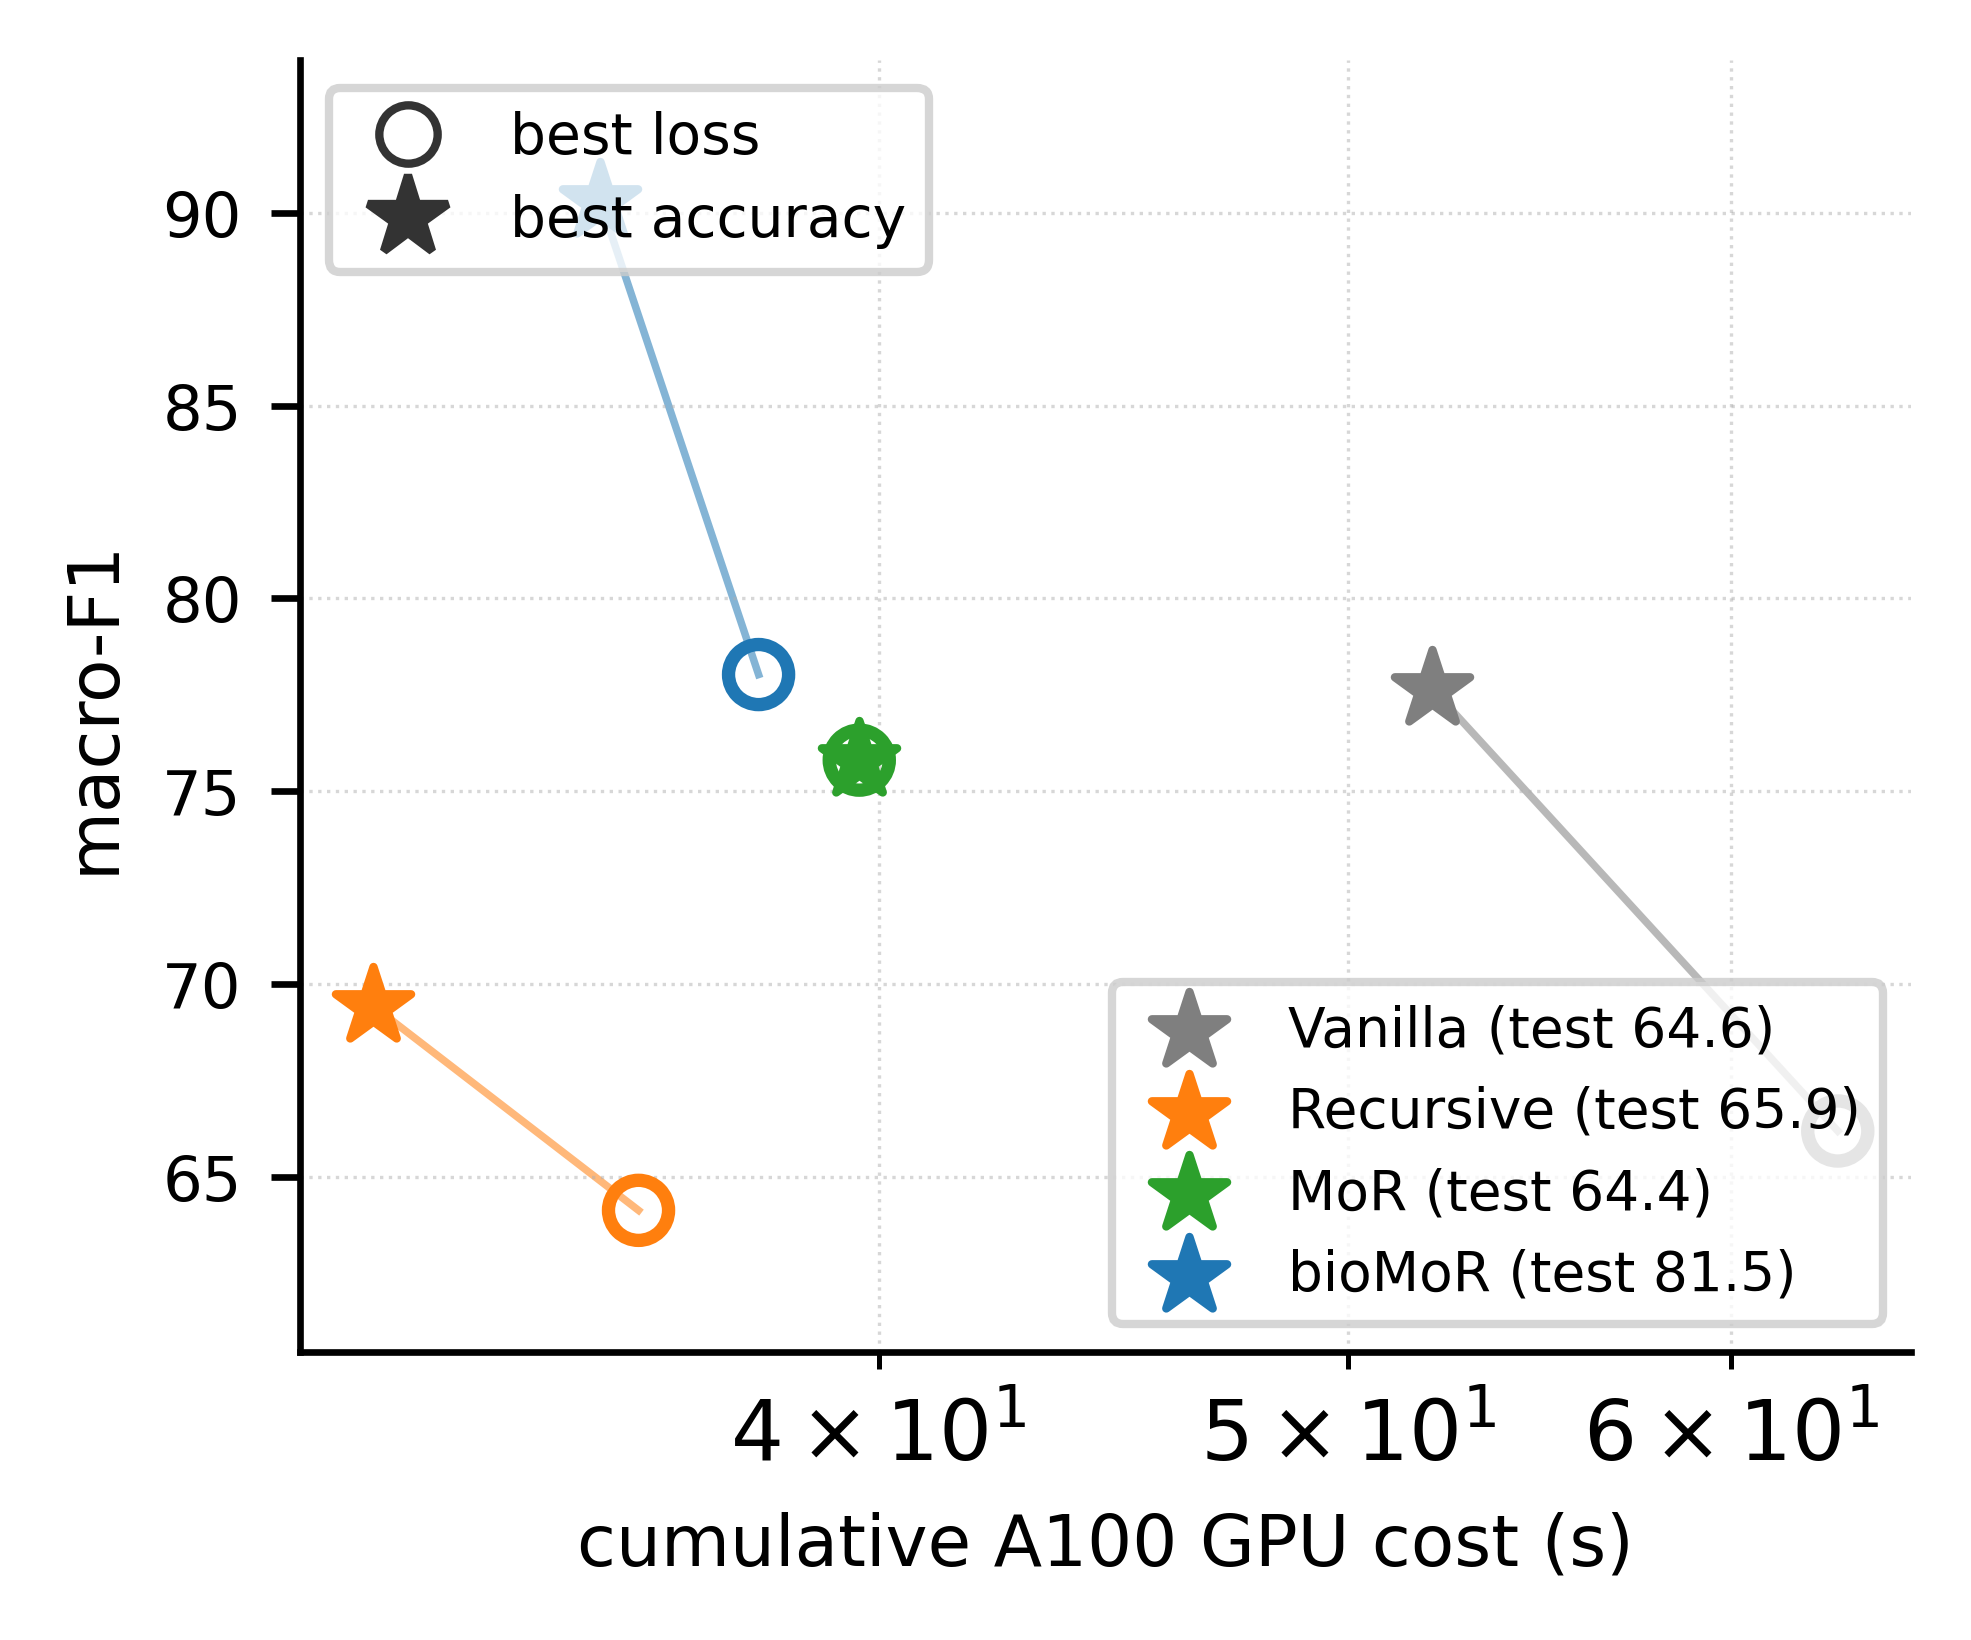
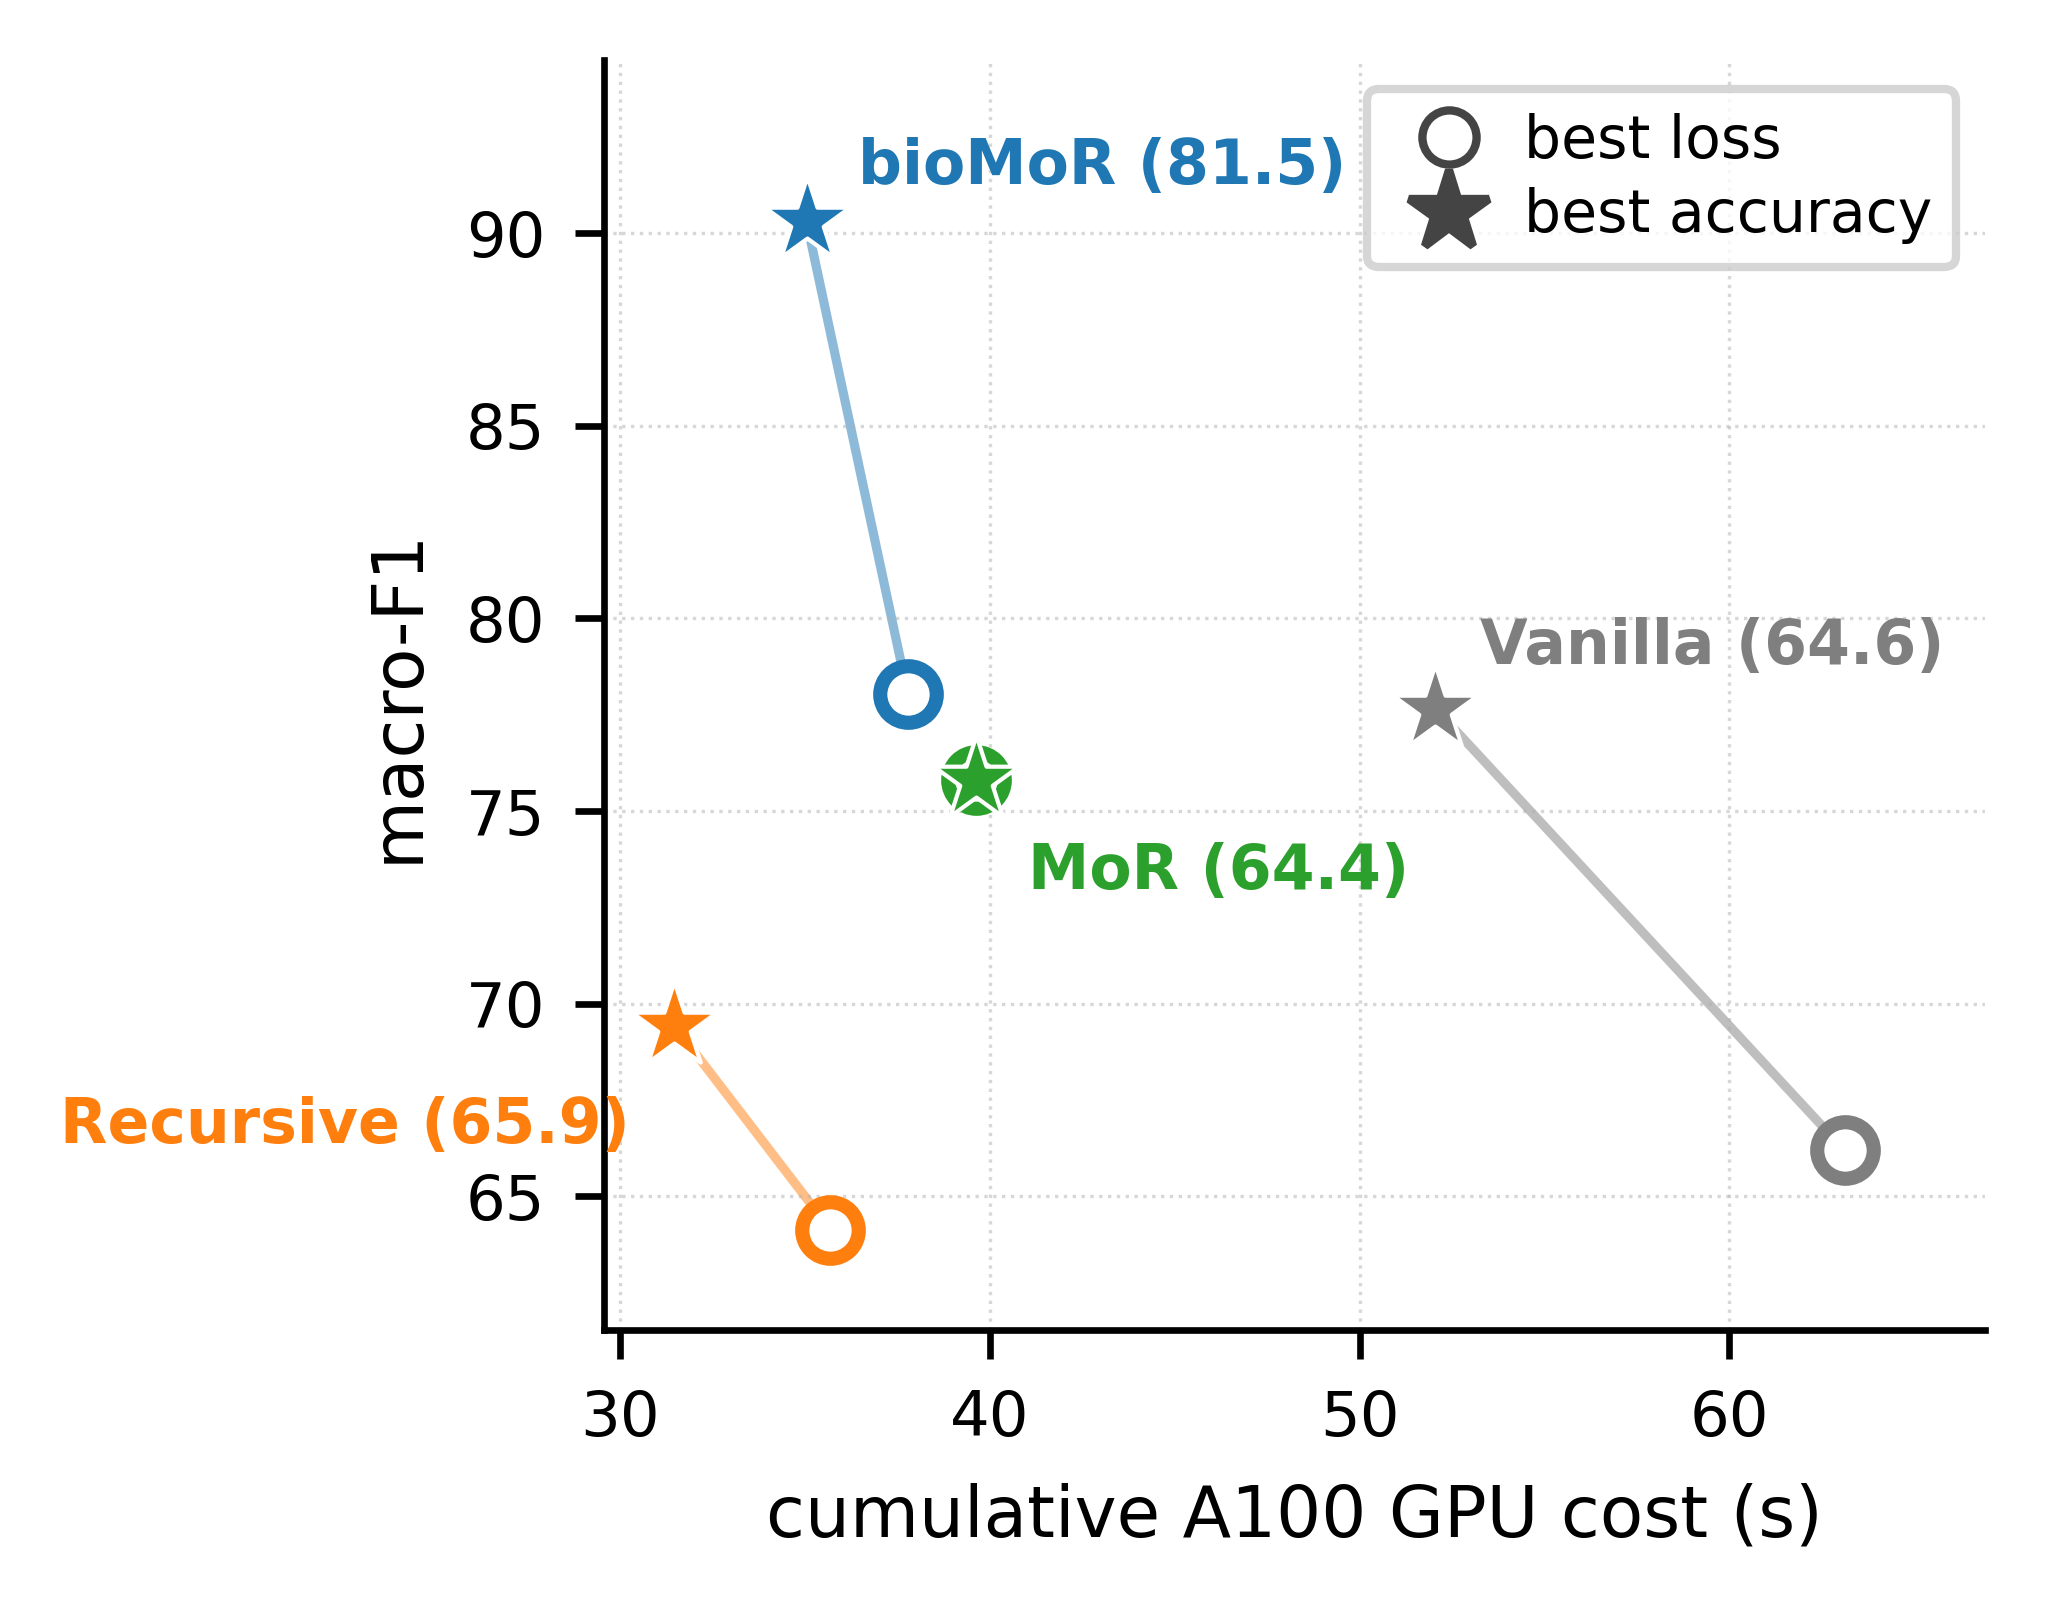
point diagram: linear axis, direct per-model labels, fix legend covering markers

diff --git a/scripts/make_baron_pointdiagram.py b/scripts/make_baron_pointdiagram.py
@@ -25,40 +25,46 @@ def main():
         print(f"[pointdiagram] {SRC} not found"); return
     d = json.load(open(SRC))
 
-    fig, ax = plt.subplots(figsize=(3.4, 2.9))
+    # label placement offsets (dx in seconds, dy in F1 pts, ha) tuned so text clears the markers
+    LAB = {"Vanilla": (1.2, 1.6, "left"), "Recursive": (-1.2, -2.6, "right"),
+           "MoR": (1.4, -2.4, "left"), "bioMoR": (1.4, 1.4, "left")}
+
+    fig, ax = plt.subplots(figsize=(3.5, 2.8))
+    xs, ys = [], []
     for name in ORDER:
         if name not in d:
             continue
         agg = [e for e in d[name]["agg"] if e.get("sec_mean") is not None]
         if not agg:
             continue
-        # best-loss checkpoint (min training loss) and best-accuracy checkpoint (max val F1)
-        bl = min(agg, key=lambda e: e["loss_mean"])
-        ba = max(agg, key=lambda e: e["val_f1_mean"])
+        bl = min(agg, key=lambda e: e["loss_mean"])       # best training loss checkpoint
+        ba = max(agg, key=lambda e: e["val_f1_mean"])     # best val macro-F1 checkpoint
         test = d[name].get("test_f1_mean")
         c = COLOR[name]
-        # connector between the two operating points of this architecture
-        ax.plot([bl["sec_mean"], ba["sec_mean"]], [bl["val_f1_mean"], ba["val_f1_mean"]],
-                color=c, lw=0.9, alpha=0.55, zorder=1)
-        ax.scatter(bl["sec_mean"], bl["val_f1_mean"], facecolors="none", edgecolors=c,
-                   s=52, lw=1.6, marker="o", zorder=3)
-        ax.scatter(ba["sec_mean"], ba["val_f1_mean"], color=c, s=90, marker="*", zorder=3,
-                   label=f"{name} (test {test:.1f})" if test is not None else name)
+        xb, yb = bl["sec_mean"], bl["val_f1_mean"]
+        xa, ya = ba["sec_mean"], ba["val_f1_mean"]
+        xs += [xb, xa]; ys += [yb, ya]
+        ax.plot([xb, xa], [yb, ya], color=c, lw=1.1, alpha=0.5, zorder=1)
+        ax.scatter(xb, yb, facecolors="white", edgecolors=c, s=46, lw=1.7, marker="o", zorder=3)
+        ax.scatter(xa, ya, color=c, s=115, marker="*", edgecolors="white", lw=0.5, zorder=4)
+        dx, dy, ha = LAB.get(name, (1.2, 1.4, "left"))
+        ax.annotate(f"{name} ({test:.1f})", (xa, ya), (xa + dx, ya + dy), ha=ha, va="center",
+                    fontsize=7.4, fontweight="bold", color=c, zorder=5)
 
-    # marker legend (best-loss vs best-accuracy), separate from the colour/arch legend
+    # single compact marker-shape key placed in the empty upper-right; NOT over any point
     from matplotlib.lines import Line2D
-    shape_leg = [Line2D([0], [0], marker="o", mfc="none", mec="#333", ls="none", ms=7, label="best loss"),
-                 Line2D([0], [0], marker="*", color="#333", ls="none", ms=10, label="best accuracy")]
-    leg1 = ax.legend(loc="lower right", fontsize=6.6, frameon=True, title_fontsize=7)
-    ax.add_artist(leg1)
-    ax.legend(handles=shape_leg, loc="upper left", fontsize=6.8, frameon=True)
+    key = [Line2D([0], [0], marker="o", mfc="white", mec="#444", ls="none", ms=6.5, label="best loss"),
+           Line2D([0], [0], marker="*", color="#444", ls="none", ms=10, label="best accuracy")]
+    ax.legend(handles=key, loc="upper right", fontsize=7, frameon=True, handletextpad=0.3,
+              borderpad=0.4, labelspacing=0.3)
 
     ax.set_xlabel("cumulative A100 GPU cost (s)", fontsize=8.5)
     ax.set_ylabel("macro-F1", fontsize=8.5)
-    ax.set_xscale("log")
-    ax.margins(y=0.14)                       # headroom so the top (bioMoR) star isn't clipped
+    xlo, xhi = min(xs), max(xs); ylo, yhi = min(ys), max(ys)
+    ax.set_xlim(xlo - 0.06 * (xhi - xlo), xhi + 0.12 * (xhi - xlo))
+    ax.set_ylim(ylo - 0.10 * (yhi - ylo), yhi + 0.16 * (yhi - ylo))   # headroom for top star
     ax.tick_params(labelsize=7.5)
-    ax.grid(True, which="both", ls=":", lw=0.4, alpha=0.5)
+    ax.grid(True, ls=":", lw=0.4, alpha=0.5)
     for sp in ("top", "right"):
         ax.spines[sp].set_visible(False)
     fig.tight_layout()